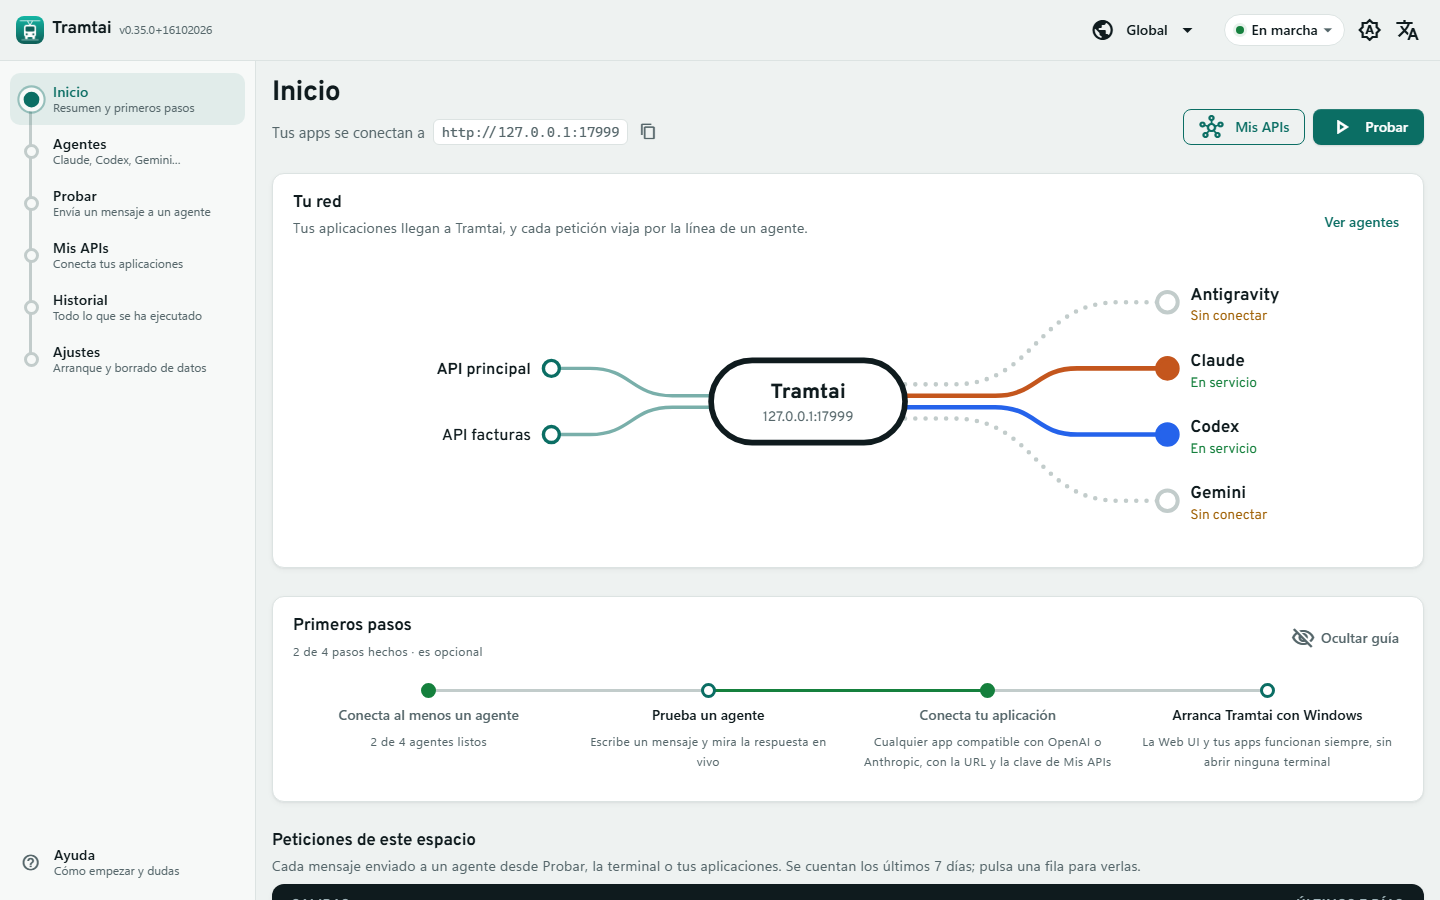
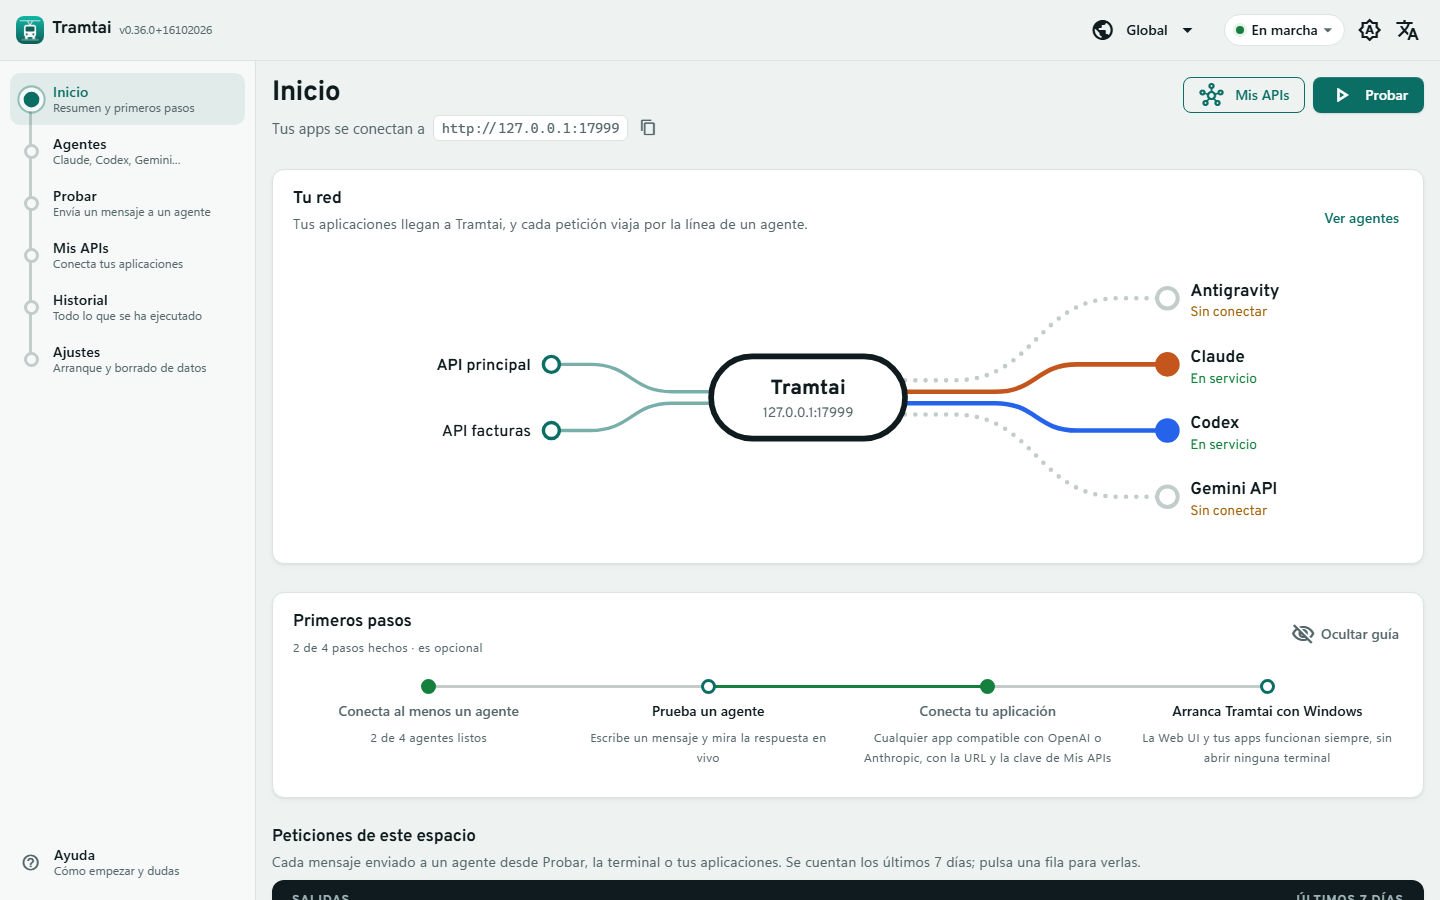
feat(sitio): capturas reales de la app según el tema
- Sección «Así se ve» con Inicio y Mis APIs, en claro u oscuro según el tema efectivo
- README: capturas nuevas de Inicio (claro) y Mis APIs (oscuro) con el rediseño

diff --git a/site/index.html b/site/index.html
@@ -130,6 +130,27 @@ respuesta = cliente.chat.completions.create(
     </div>
   </section>
 
+  <section id="capturas">
+    <div class="envoltura">
+      <div class="cabeza">
+        <span class="etiqueta"><span lang="es">Así se ve</span><span lang="en">How it looks</span></span>
+        <h2><span lang="es">Tu red, a la vista.</span><span lang="en">Your network, at a glance.</span></h2>
+      </div>
+      <div class="capturas">
+        <figure class="captura">
+          <img class="solo-claro" src="capturas/inicio-claro.png" width="1440" height="900" loading="lazy" alt="Inicio: tus apps, Tramtai y una línea por agente con su estado">
+          <img class="solo-oscuro" src="capturas/inicio-oscuro.png" width="1440" height="900" loading="lazy" alt="Inicio: tus apps, Tramtai y una línea por agente con su estado">
+          <figcaption><span lang="es">Inicio: tus apps, Tramtai y una línea por agente con su estado</span><span lang="en">Home: your apps, Tramtai and one line per agent with its status</span></figcaption>
+        </figure>
+        <figure class="captura">
+          <img class="solo-claro" src="capturas/mis-apis-claro.png" width="1440" height="900" loading="lazy" alt="Mis APIs: la dirección, la clave y ejemplos listos para copiar">
+          <img class="solo-oscuro" src="capturas/mis-apis-oscuro.png" width="1440" height="900" loading="lazy" alt="Mis APIs: la dirección, la clave y ejemplos listos para copiar">
+          <figcaption><span lang="es">Mis APIs: la dirección, la clave y ejemplos listos para copiar</span><span lang="en">My APIs: the address, the key and ready-to-copy examples</span></figcaption>
+        </figure>
+      </div>
+    </div>
+  </section>
+
   <section id="funciones">
     <div class="envoltura">
       <div class="cabeza">

diff --git a/site/estilo.css b/site/estilo.css
@@ -95,6 +95,18 @@ p { margin: 0; }
 
 /* Secciones */
 section { padding: 72px 0; }
+/* Capturas de la app: la del tema efectivo (el del sistema o el elegido). */
+.capturas { display: grid; grid-template-columns: repeat(auto-fit, minmax(min(100%, 420px), 1fr)); gap: 24px; }
+.captura { margin: 0; }
+.captura img { width: 100%; height: auto; border: 1px solid var(--borde); border-radius: var(--radio); box-shadow: var(--sombra); }
+.captura figcaption { margin-top: 10px; color: var(--texto-suave); font-size: .9rem; }
+.solo-oscuro { display: none; }
+:root[data-tema="oscuro"] .solo-oscuro { display: block; }
+:root[data-tema="oscuro"] .solo-claro { display: none; }
+@media (prefers-color-scheme: dark) {
+  :root:not([data-tema="claro"]) .solo-oscuro { display: block; }
+  :root:not([data-tema="claro"]) .solo-claro { display: none; }
+}
 .cabeza { max-width: 44em; margin-bottom: 36px; }
 .cabeza p { margin-top: 12px; font-size: 1.05rem; }
 .etiqueta { font: 700 .78rem var(--titulo); letter-spacing: .12em; text-transform: uppercase; color: var(--acento); margin-bottom: 10px; display: block; }
